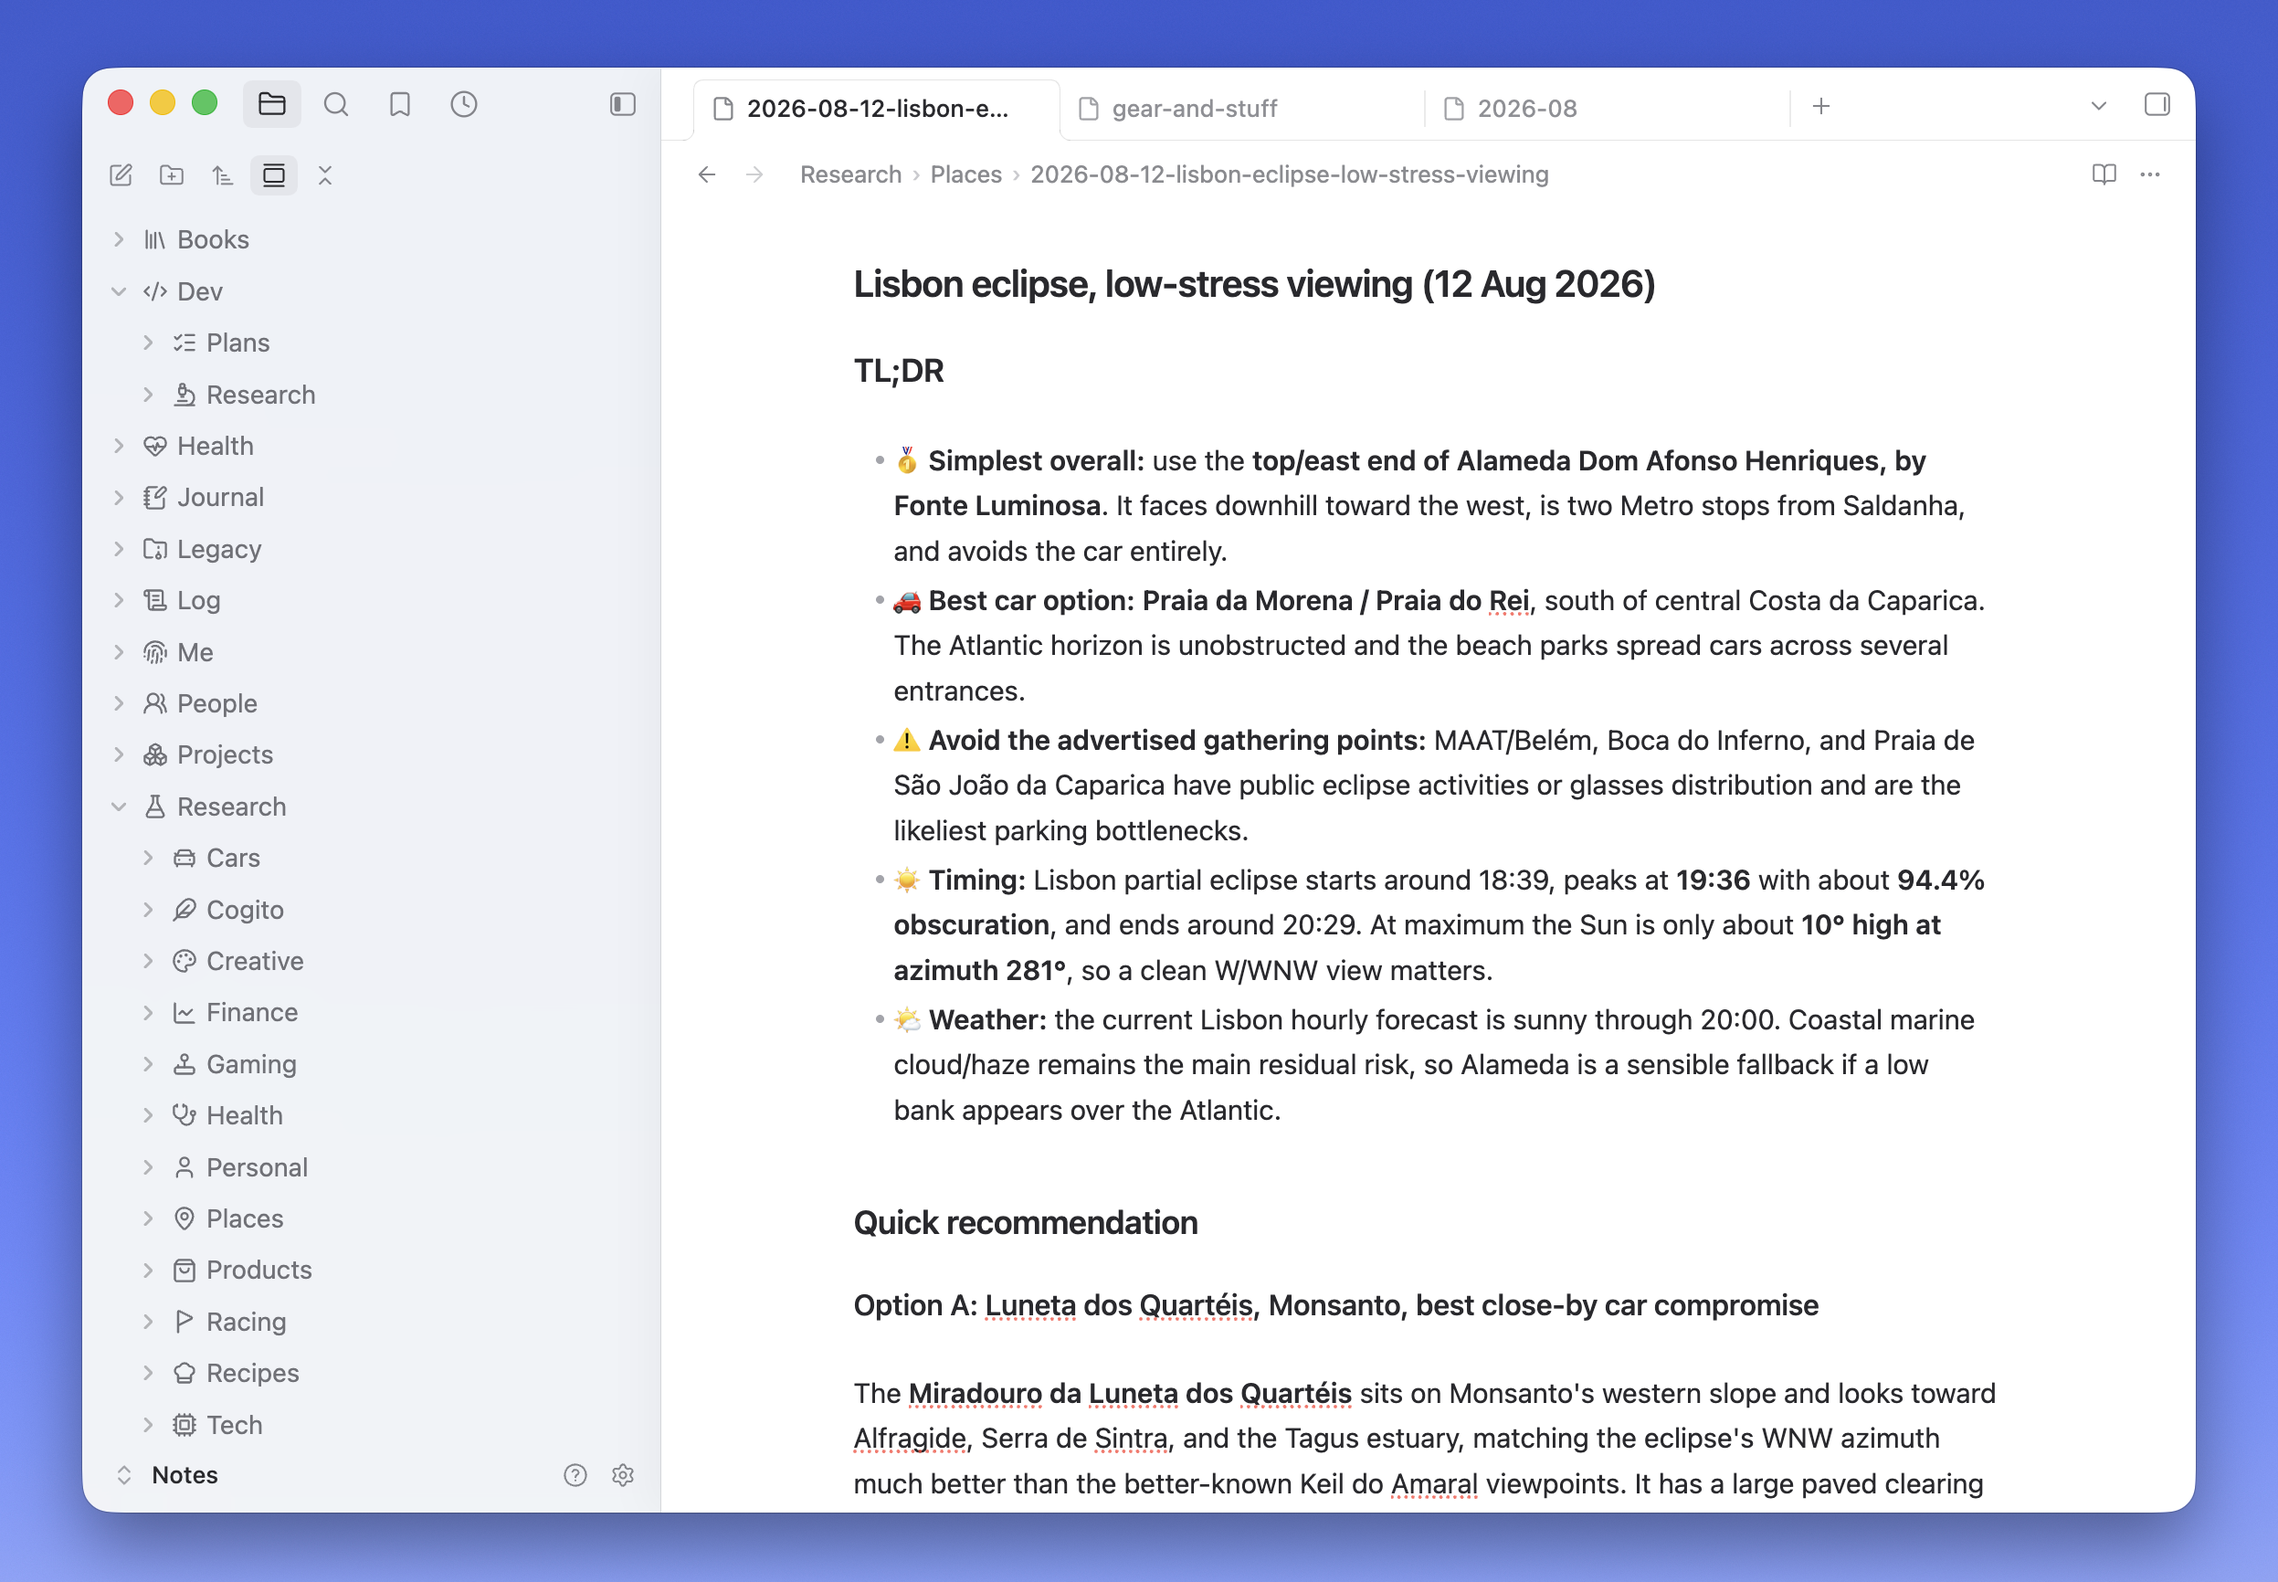
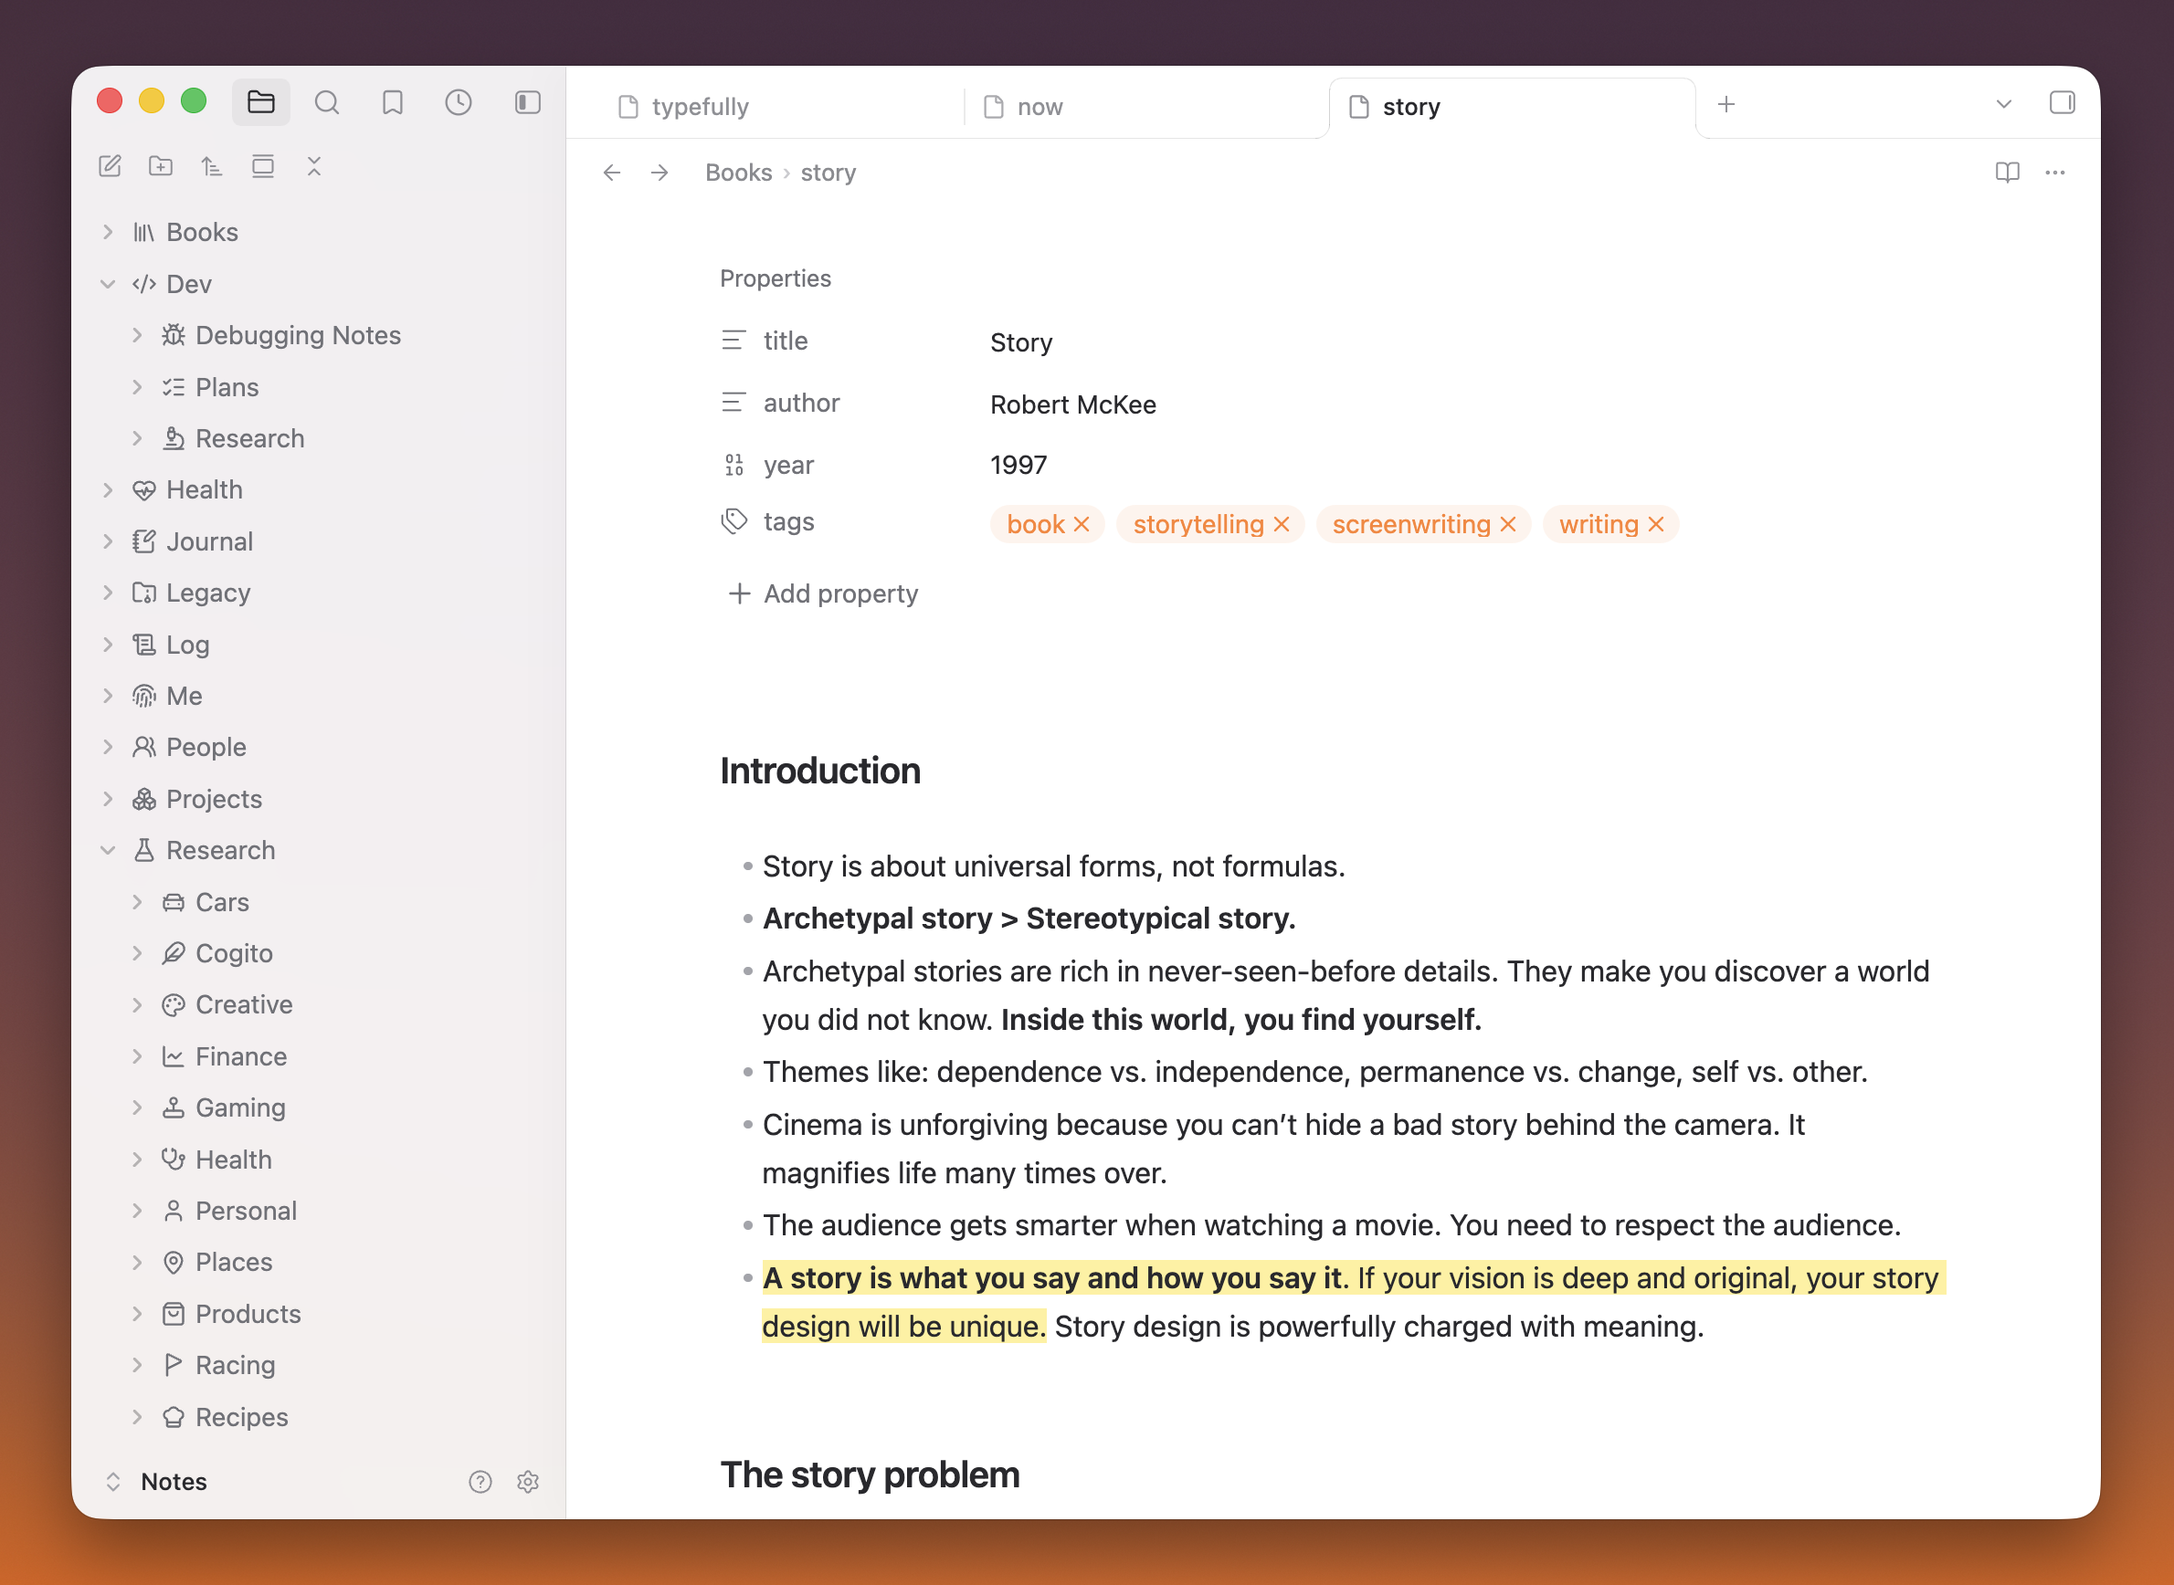
docs: update theme screenshots

Changed region(s): [[0.0, 0.0, 1.0, 1.0], [0.342, 0.1559, 0.7462, 0.1871], [0.3731, 0.2182, 0.4042, 0.2494]]

diff --git a/README.md b/README.md
@@ -6,6 +6,8 @@ A quiet, native-feeling standalone Obsidian theme by [Fabrizio Rinaldi](https://
 
 ![Verso in light mode](./screenshots/verso.png)
 
+![Verso in dark mode](./screenshots/verso-dark.png)
+
 Verso refines the app as a whole with **a cleaner palette, subtler iconography, quieter details, and a more native macOS feel.**
 
 This is a third-party community theme and is not affiliated with Obsidian or OpenAI.
